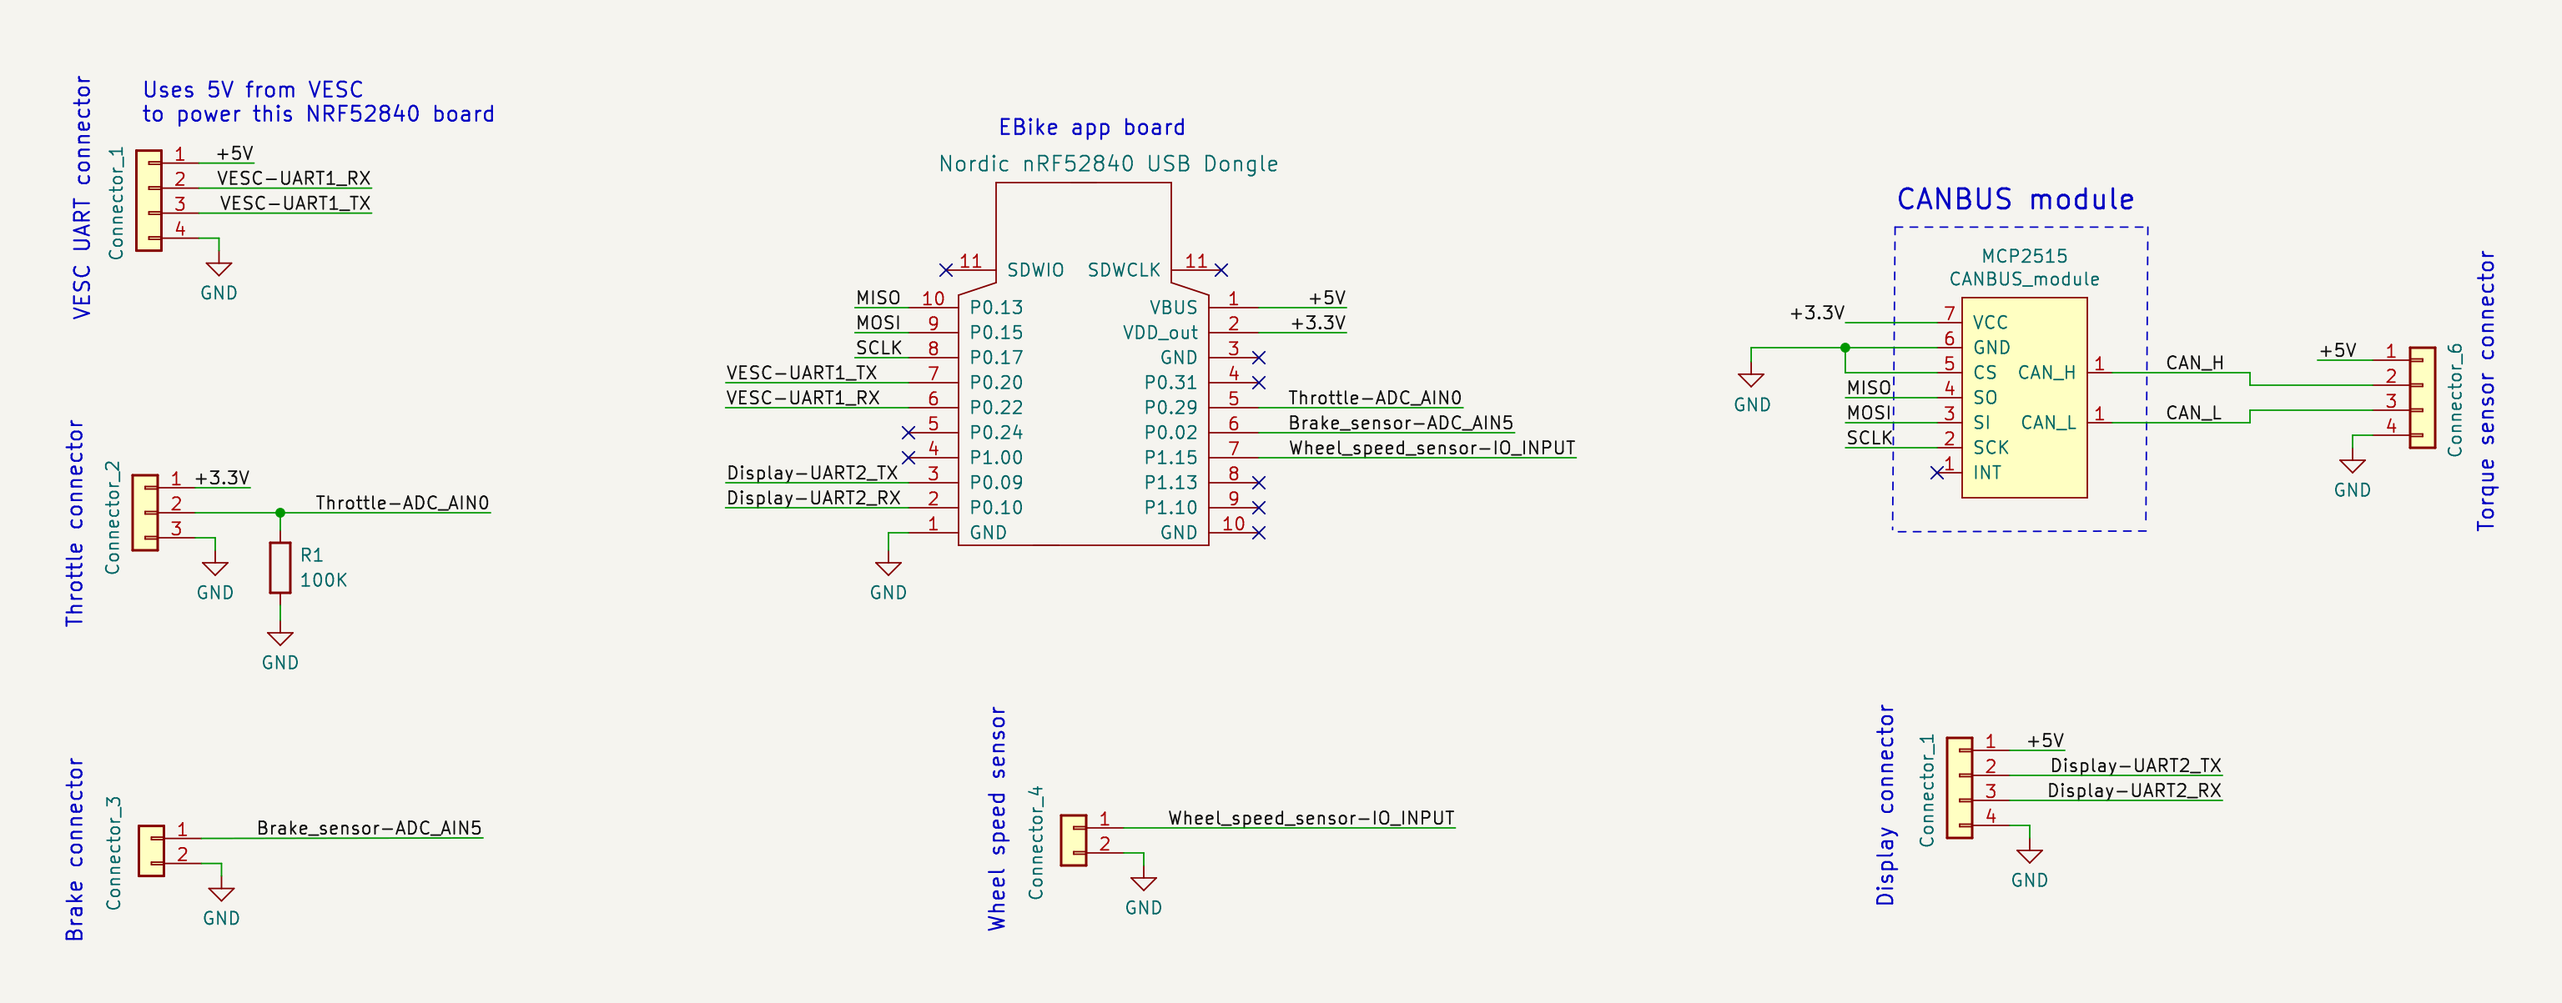
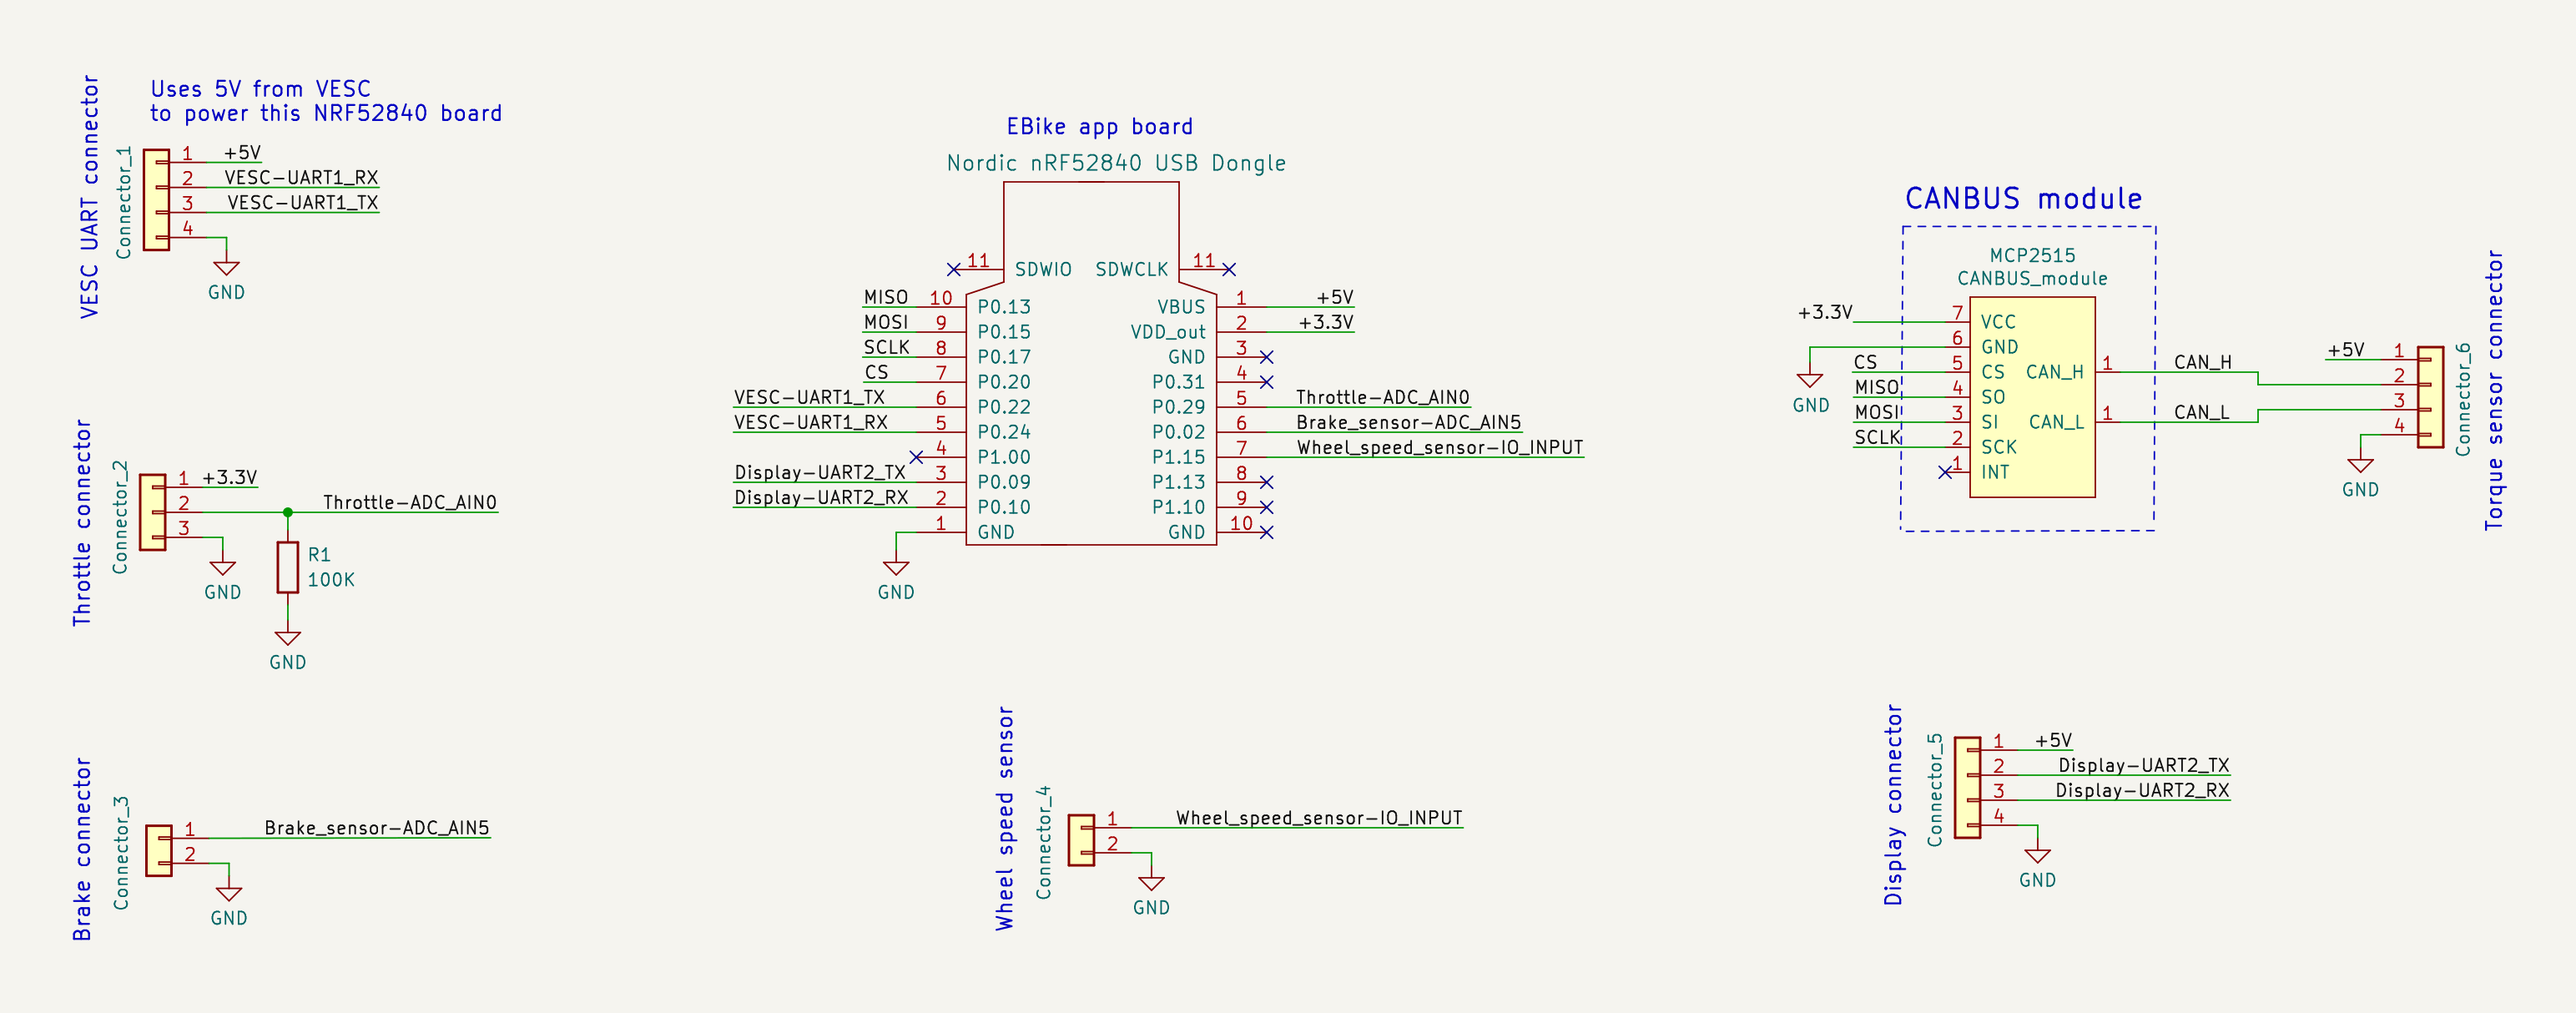
Changed SPI pin to a more logical one - changed on firmware and on the schematic

diff --git a/firmware/torque_sensor.py b/firmware/torque_sensor.py
@@ -8,7 +8,7 @@ class torque_sensor(object):
 
     def __init__(self):
         """Torque sensor"""
-        self.cs = DigitalInOut(board.P0_24)
+        self.cs = DigitalInOut(board.P0_20)
         self.cs.switch_to_output()
         self.spi = busio.SPI(board.P0_17, board.P0_15, board.P0_13)
         self.can_bus = CAN(self.spi, self.cs, baudrate=250000, xtal_frequency=8000000)

diff --git a/firmware/code.py b/firmware/code.py
@@ -12,4 +12,7 @@ while True:
         print("Cadence: " + str(cadence))
 
     throttle_value = throttle.read()
-    print(throttle_value)
+    print("Throttle: " + str(throttle_value))
+    print(" ")
+
+    sleep(1)
